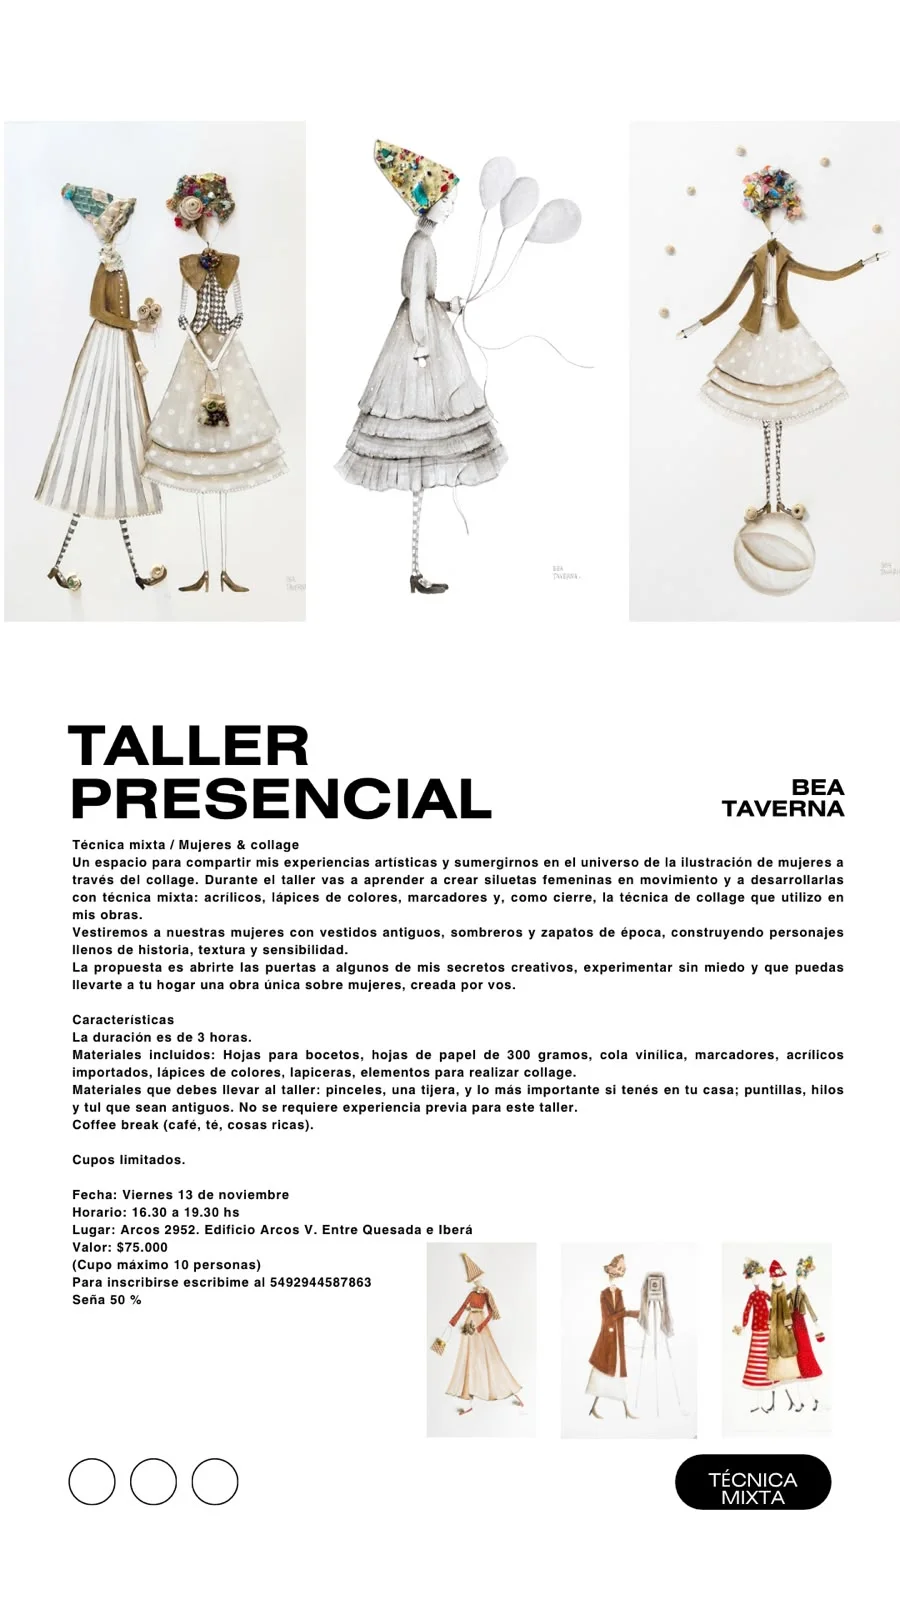
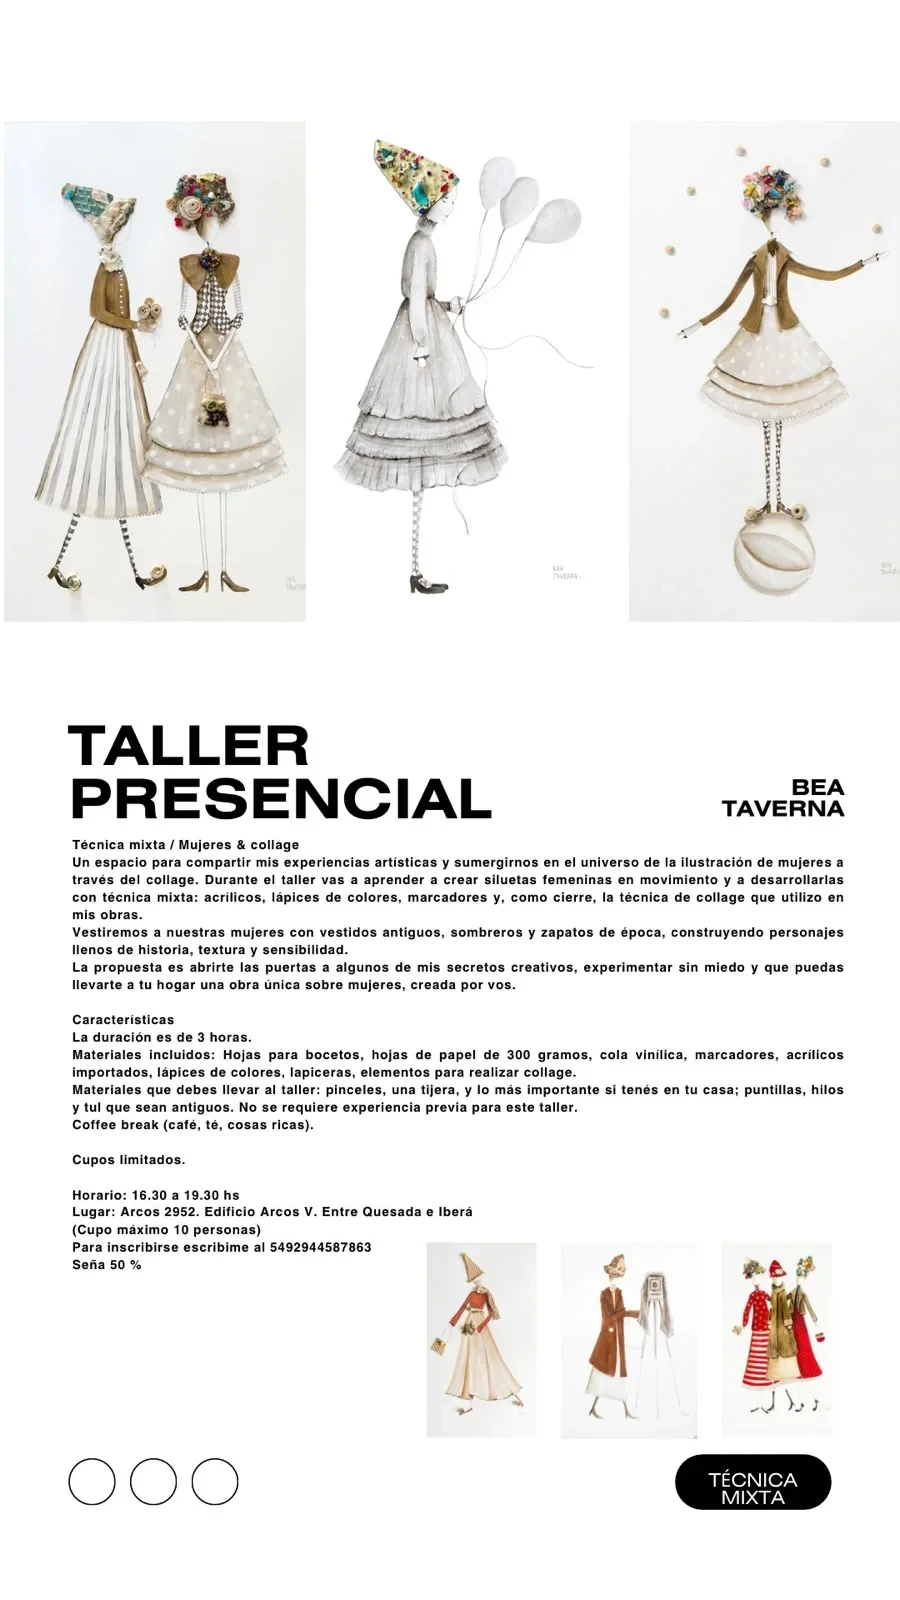
Collage: saca precio de la web y fecha/precio del flyer
Claude-Session: https://claude.ai/code/session_01BHQShDnTX6bHvBKkkx2s8J

Changed region(s): [[0.0622, 0.7188, 0.5289, 0.8125]]

diff --git a/talleres-de-collage.html b/talleres-de-collage.html
@@ -42,7 +42,7 @@
         "name": "Arcos V",
         "address": { "@type": "PostalAddress", "streetAddress": "Arcos 2952", "addressLocality": "Núñez", "addressRegion": "Ciudad Autónoma de Buenos Aires", "postalCode": "1429", "addressCountry": "AR" }
       },
-      "offers": { "@type": "Offer", "price": "75000", "priceCurrency": "ARS", "availability": "https://schema.org/LimitedAvailability", "url": "https://arcosv.com.ar/talleres-de-collage.html" },
+      "offers": { "@type": "Offer", "availability": "https://schema.org/LimitedAvailability", "url": "https://arcosv.com.ar/talleres-de-collage.html" },
       "organizer": { "@type": "Person", "name": "Bea Taverna", "url": "https://www.instagram.com/bea_taverna/" },
       "performer": { "@type": "Person", "name": "Bea Taverna", "url": "https://www.instagram.com/bea_taverna/" },
       "url": "https://arcosv.com.ar/talleres-de-collage.html"
@@ -275,7 +275,7 @@
                 <li>☕ Coffee break: café, té y cosas ricas</li>
                 <li>✂ No hace falta experiencia previa</li>
                 <li>👥 Cupo máximo: 10 personas</li>
-                <li>💰 Valor: $75.000 · Reservás con una seña del 50%</li>
+                <li>💳 Reservás tu lugar con una seña del 50%</li>
             </ul>
             <a href="https://wa.me/5492944587863?text=Hola%20Bea!%20Quiero%20reservar%20mi%20lugar%20en%20el%20taller%20Mujeres%20%26%20collage%20del%20mi%C3%A9rcoles%2018%20de%20noviembre%20en%20Arcos%20V." target="_blank" rel="noopener" class="btn-ws">Reservar por WhatsApp</a>
         </div>
@@ -304,7 +304,7 @@
             <p>Hojas para bocetos, hojas de papel de 300 gramos, cola vinílica, marcadores, acrílicos importados, lápices de colores, lapiceras y elementos para hacer el collage.</p>
             <h3>Para llevar</h3>
             <p>Pinceles y una tijera. Y lo más importante: si tenés en tu casa puntillas, hilos y tul antiguos, traelos. Son los que le dan alma a cada obra.</p>
-            <img src="collage-bea-nov26-flyer.webp" alt="Flyer del taller presencial Mujeres & collage de Bea Taverna, viernes 13 de noviembre en Arcos V" class="flyer" loading="lazy">
+            <img src="collage-bea-nov26-flyer.webp" alt="Flyer del taller presencial Mujeres & collage de Bea Taverna en Arcos V" class="flyer" loading="lazy">
         </div>
 
         <!-- CONTACTO -->
